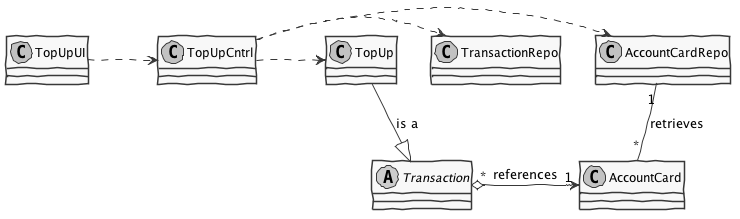
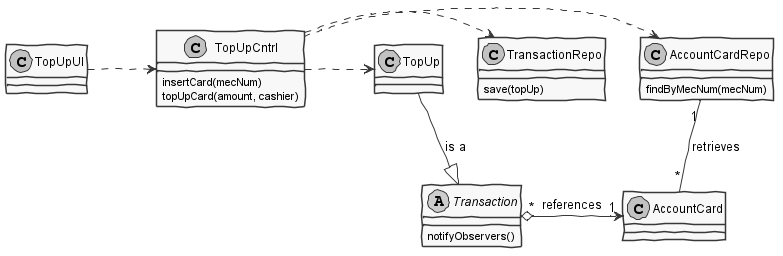
validates mecanographic number insertion on TopUp [UC-CO-03][issue #22][peer-programming @danieljgoncalves]

Changed region(s): [[0.0, 0.0274, 0.9946, 0.9863], [0.5284, 0.0822, 0.5595, 0.1096]]

diff --git a/pos.consoleapp/src/main/java/eapli/ecafeteria/pos/consoleapp/presentation/TopUpAccountCardUI.java b/pos.consoleapp/src/main/java/eapli/ecafeteria/pos/consoleapp/presentation/TopUpAccountCardUI.java
@@ -6,56 +6,56 @@
 package eapli.ecafeteria.pos.consoleapp.presentation;
 
 import eapli.ecafeteria.application.delivery.TopUpAccountCardController;
-import eapli.framework.application.Controller;
 import eapli.framework.persistence.DataConcurrencyException;
 import eapli.framework.persistence.DataIntegrityViolationException;
 import eapli.framework.presentation.console.AbstractUI;
 import eapli.util.io.Console;
 
-import java.util.logging.Level;
-import java.util.logging.Logger;
+import javax.persistence.NoResultException;
 
 /**
+ * Represents the user interface to topUp a card.
+ *
  * @author Ivo Ferro 1151159
  * @author Daniel Gonçalves 1151452
  */
 public class TopUpAccountCardUI extends AbstractUI {
 
+    /**
+     * The controller to TopUp cards.
+     */
     private final TopUpAccountCardController theController = new TopUpAccountCardController();
-
-    protected Controller controller() {
-        return this.theController;
-    }
 
     @Override
     protected boolean doShow() {
 
-        final String mecanographicNumberString = Console
-                .readLine("Enter the Mecanographic Number to TopUp: ");
-
-        final Double eurosValue = Console
-                .readDouble("TopUp Amount (in Euros): ");
-
         boolean success = false;
+
+        final String mecanographicNumberString = Console.readLine("Enter the Mecanographic Number to TopUp: ");
+
         try {
-            this.theController.topUpCard(mecanographicNumberString, eurosValue);
+            theController.insertCard(mecanographicNumberString);
 
-            success = !success; // Turn to success to true
+            final Double eurosValue = Console.readDouble("TopUp Amount (in Euros): ");
+            try {
+                this.theController.topUpCard(eurosValue);
+                success = !success; // Turn to success to true
 
-        } catch (DataConcurrencyException ex) {
-            System.out.println("That entity has already been changed or deleted since you last read it");
-            Logger.getLogger(TopUpAccountCardUI.class.getName()).log(Level.SEVERE, null, ex);
-        } catch (DataIntegrityViolationException ex) {
-            System.out.println("That entity ID is already in use");
-            Logger.getLogger(TopUpAccountCardUI.class.getName()).log(Level.SEVERE, null, ex);
+            } catch (IllegalStateException ex) {
+                System.out.println("The amount to topUp must be positive.");
+            } catch (DataConcurrencyException ex) {
+                System.out.println("That entity has already been changed or deleted since you last read it");
+            } catch (DataIntegrityViolationException ex) {
+                System.out.println("That entity ID is already in use");
+            }
+        } catch (NoResultException ex) {
+            System.out.println("The mecanographic number doesn't exists.");
         }
 
         if (success) {
-            // Success message
-            System.out.println("TopUp was successfull.");
+            System.out.println("TopUp was successful.");
         } else {
-            // Unuccess message
-            System.out.println("TopUp was unsuccessfull.");
+            System.out.println("TopUp was unsuccessful.");
         }
 
         return false;

diff --git a/ecafeteria.core/src/main/java/eapli/ecafeteria/application/delivery/TopUpAccountCardController.java b/ecafeteria.core/src/main/java/eapli/ecafeteria/application/delivery/TopUpAccountCardController.java
@@ -16,6 +16,8 @@ import eapli.framework.persistence.DataConcurrencyException;
 import eapli.framework.persistence.DataIntegrityViolationException;
 import eapli.framework.persistence.repositories.TransactionalContext;
 
+import javax.persistence.NoResultException;
+
 /**
  * The controller to topUp an account card.
  *
@@ -29,32 +31,40 @@ public class TopUpAccountCardController implements Controller {
     private final TransactionRepository transactionRepo = PersistenceContext.repositories().transactions(txCtx);
 
     /**
-     * TopUp an account card.
+     * The account card.
+     */
+    private AccountCard anAccountCard;
+
+    /**
+     * Inserts the account card to topUp.
      *
-     * @param mecanographicNumber the mecanographic number to identify the account card
-     * @param eurosValue          the amount to topUp
+     * @param mecanographicNumber the mecanographic number of the account card
+     * @throws NoResultException exception launched when the mecanographic number is invalid
+     */
+    public void insertCard(String mecanographicNumber) throws NoResultException {
+        Application.ensurePermissionOfLoggedInUser(ActionRight.SALE);
+
+        final MecanographicNumber aMecanographicNumber = new MecanographicNumber(mecanographicNumber);
+        anAccountCard = accountCardsRepo.findByMecanographicNumber(aMecanographicNumber);
+    }
+
+    /**
+     * TopUp the account card.
+     *
+     * @param eurosValue the amount to topUp
      * @throws DataConcurrencyException
      * @throws DataIntegrityViolationException
      */
-    public void topUpCard(String mecanographicNumber, Double eurosValue)
-            throws DataConcurrencyException, DataIntegrityViolationException {
-
-        Application.ensurePermissionOfLoggedInUser(ActionRight.SALE);
-
-        MecanographicNumber aMecanographicNumber = new MecanographicNumber(mecanographicNumber);
-
-        AccountCard card = accountCardsRepo.findByMecanographicNumber(aMecanographicNumber);
-
+    public void topUpCard(Double eurosValue) throws DataConcurrencyException, DataIntegrityViolationException {
         Money aMoney = Money.euros(eurosValue);
 
-        // FIXME: Should we access the current cashier through the user session?
         Username aCashier = Application.session().session().authenticatedUser().username();
 
         //explicitly begin a transaction
         txCtx.beginTransaction();
         /********************************/
         // Save new transaction
-        Transaction aTransaction = new TopUp(card, aMoney, aCashier);
+        Transaction aTransaction = new TopUp(anAccountCard, aMoney, aCashier);
         transactionRepo.save(aTransaction);
         // Add to card's balance
         aTransaction.notifyObservers();

diff --git a/ecafeteria.core/src/test/java/eapli/ecafeteria/domain/cafeteria/account/TopUpTest.java b/ecafeteria.core/src/test/java/eapli/ecafeteria/domain/cafeteria/account/TopUpTest.java
@@ -8,12 +8,32 @@ import org.junit.Test;
 import static org.junit.Assert.assertFalse;
 
 /**
- * Created by IvoFerro on 27/04/2017.
+ * Unit tests for the TopUp class.
+ *
+ * @author Ivo Ferro 1151159
+ * @author Daniel Gonçalves 1151452
  */
 public class TopUpTest {
 
+    @Test(expected = IllegalStateException.class)
+    public void ensureTopUpHasCashier() {
+        final AccountCard aCard = new AccountCard(new MecanographicNumber("Dummy"));
+        final Money aMoney = Money.euros(50);
+
+        new TopUp(aCard, aMoney, null);
+    }
+
+    @Test(expected = IllegalStateException.class)
+    public void ensureTopUpHasPositiveAmount() {
+        final AccountCard aCard = new AccountCard(new MecanographicNumber("Dummy"));
+        final Money aMoney = Money.euros(20).negate();
+        final Username cashier = new Username("Cashier");
+
+        new TopUp(aCard, aMoney, cashier);
+    }
+
     @Test
-    public void ensureTopUpWithNullPkIsNotEqualToAnotherTopUpWithNullPk() throws Exception {
+    public void ensureTopUpWithNullPkIsNotEqualToAnotherTopUpWithNullPk() {
         final AccountCard aCard = new AccountCard(new MecanographicNumber("Dummy"));
         final Money aMoney = Money.euros(50);
         final Username cashier = new Username("Cashier");
@@ -25,5 +45,4 @@ public class TopUpTest {
 
         assertFalse(aTopUp.equals(aTransaction));
     }
-
 }

diff --git a/ecafeteria.bootstrap.core/src/main/java/eapli/ecafeteria/bootstrapers/BookingBootstraper.java b/ecafeteria.bootstrap.core/src/main/java/eapli/ecafeteria/bootstrapers/BookingBootstraper.java
@@ -72,8 +72,10 @@ public class BookingBootstraper implements Action {
         final CafeteriaUser user1 = users.findByUsername(new Username("900330"));
         final CafeteriaUser user2 = users.findByUsername(new Username("900331"));
          try {
-            theTopUpController.topUpCard(user1.mecanographicNumber().toString(), 10000.0);
-            theTopUpController.topUpCard(user2.mecanographicNumber().toString(), 10000.0);
+            theTopUpController.insertCard(user1.mecanographicNumber().toString());
+            theTopUpController.topUpCard(10000.0);
+            theTopUpController.insertCard(user2.mecanographicNumber().toString());
+            theTopUpController.topUpCard(10000.0);
         } catch (DataConcurrencyException | DataIntegrityViolationException ex) {
             Logger.getLogger(BookingBootstraper.class.getName()).log(Level.SEVERE, null, ex);
         }

diff --git a/ecafeteria.core/src/main/java/eapli/ecafeteria/domain/cafeteria/account/TopUp.java b/ecafeteria.core/src/main/java/eapli/ecafeteria/domain/cafeteria/account/TopUp.java
@@ -36,8 +36,8 @@ public class TopUp extends Transaction {
     public TopUp(AccountCard accountCard, Money amount, Username aCashier) {
         super(accountCard, amount);
 
-        if (amount.amount() < 0) {
-            throw new IllegalStateException("a top up must not have a negative amount");
+        if (amount.amount() <= 0) {
+            throw new IllegalStateException("a top up must have a positive amount");
         }
         if (aCashier == null) {
             throw new IllegalStateException("cashier username can't be null.");
